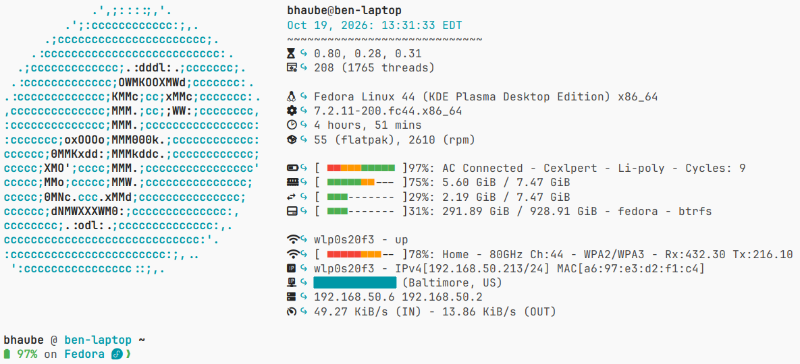
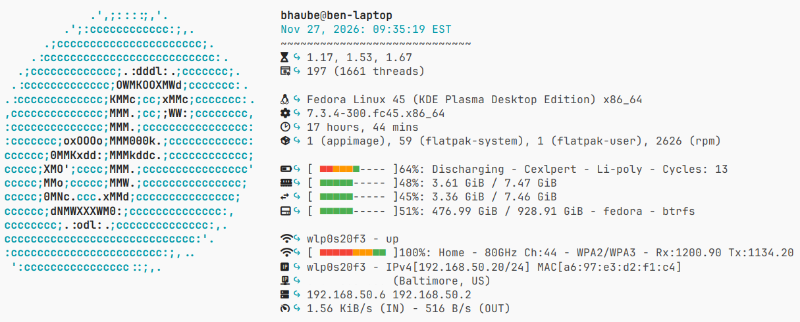
feat(assets): update fastfetch screenshots

Changed region(s): [[0.0, 0.0, 1.0, 0.9938], [0.0, 0.9006, 0.1875, 0.9938]]

diff --git a/docs/02_hardware/zimaos_nas.md b/docs/02_hardware/zimaos_nas.md
@@ -576,8 +576,8 @@ The Starship terminal prompt is a cross-platform, cross-shell application that r
 
 ### :symbols-log-in:&ensp;Fastfetch Login Preset
 
-![Fastfetch Login Preset on ZimaOS NAS](../assets/screenshots/ssh-zimaos-light.png#only-light){ width=320 align=right .on-glb }
-![Fastfetch Login Preset on ZimaOS NAS](../assets/screenshots/ssh-zimaos-dark.png#only-dark){ width=320 align=right .on-glb }
+![Fastfetch Login Preset on ZimaOS NAS](../assets/screenshots/fastfetch-zimaos-nas-light.png#only-light){ width=320 align=right .on-glb }
+![Fastfetch Login Preset on ZimaOS NAS](../assets/screenshots/fastfetch-zimaos-nas-dark.png#only-dark){ width=320 align=right .on-glb }
 
 ![GitHub Release](https://img.shields.io/github/v/release/fastfetch-cli/fastfetch?label=Release&color=%230172B1){ style="vertical-align: middle;" }
 

diff --git a/docs/02_hardware/debian_server.md b/docs/02_hardware/debian_server.md
@@ -277,8 +277,8 @@ The Starship terminal prompt is a cross-platform, cross-shell application that r
 
 ### :symbols-log-in:&ensp;Fastfetch Login Preset
 
-![Fastfetch login preset on Debian Server](../assets/screenshots/ssh-debian-vm-light.png#only-light){ .on-glb width=375 align=right }
-![Fastfetch login preset on Debian Server](../assets/screenshots/ssh-debian-vm-dark.png#only-dark){ .on-glb width=375 align=right }
+![Fastfetch login preset on Debian Server](../assets/screenshots/fastfetch-debian-vm-light.png#only-light){ .on-glb width=375 align=right }
+![Fastfetch login preset on Debian Server](../assets/screenshots/fastfetch-debian-vm-dark.png#only-dark){ .on-glb width=375 align=right }
 
 ![Fastfetch Release](https://img.shields.io/debian/v/fastfetch?label=Release&color=0172B1){ style="vertical-align: middle;" }
 

diff --git a/includes/maintenance-raspi.md b/includes/maintenance-raspi.md
@@ -173,8 +173,8 @@ The Starship terminal prompt is a cross-platform, cross-shell application that r
 
 ### :symbols-log-in:&ensp;Fastfetch Login Preset
 
-![Fastfetch login preset on Debian Server](../assets/screenshots/ssh-pi-server-light.png#only-light){ .on-glb width=340 align=right }
-![Fastfetch login preset on Debian Server](../assets/screenshots/ssh-pi-server-dark.png#only-dark){ .on-glb width=340 align=right }
+![Fastfetch login preset on Debian Server](../assets/screenshots/fastfetch-pi-server-light.png#only-light){ .on-glb width=340 align=right }
+![Fastfetch login preset on Debian Server](../assets/screenshots/fastfetch-pi-server-dark.png#only-dark){ .on-glb width=340 align=right }
 
 ![Fastfetch Release](https://img.shields.io/debian/v/fastfetch?label=Release&color=0172B1){ style="vertical-align: middle;" }
 
